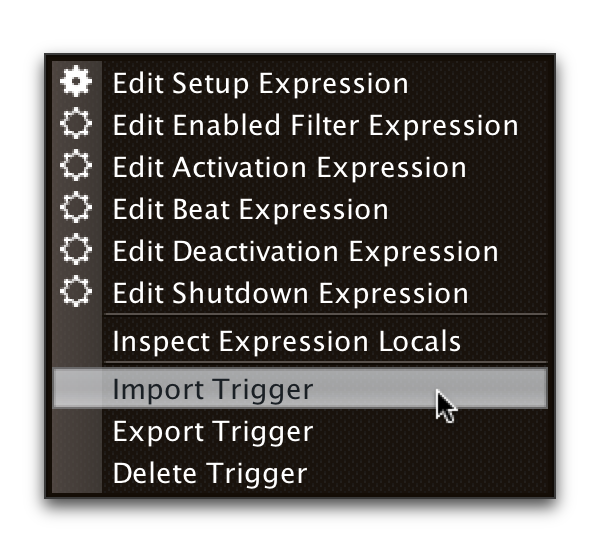
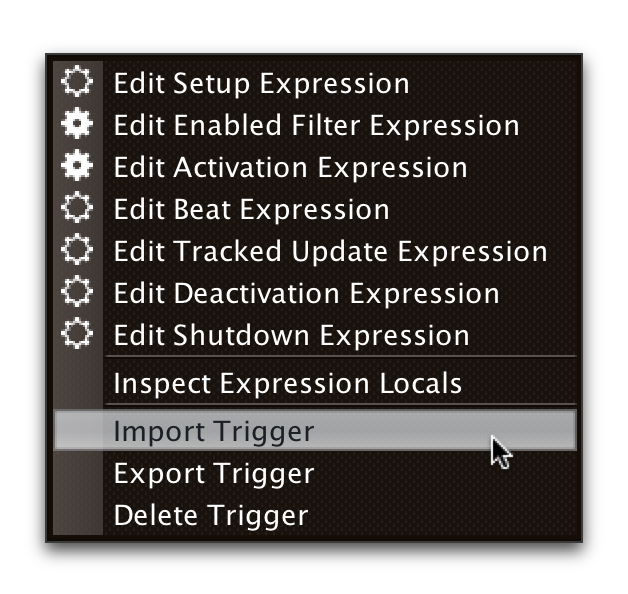
Document Tracked Update expression.
And improve and simplify the examples to use it.

Changed region(s): [[0.06, 0.0617, 0.93, 0.9564]]

diff --git a/CHANGELOG.md b/CHANGELOG.md
@@ -17,6 +17,9 @@ This change log follows the conventions of
 - User expressions can override how a track is described by storing a
   custom description string under the key `:track-description` in the
   trigger locals map.
+- A new, separate Tracked Update expression to use for relaying status
+  updates about the tracked player to other systems, simplifying the
+  purpose and use of the Enabled Filter expression
 - An example of how to control Pangolin BEYOND laser shows.
 - Takes advantage of beat-link's new slf4j integration to redirect any
   log output that beat-link produces into the beat-link-trigger log
